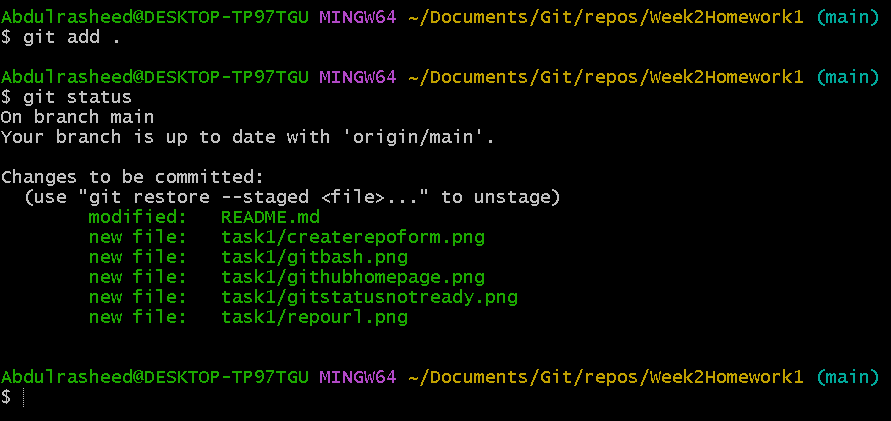
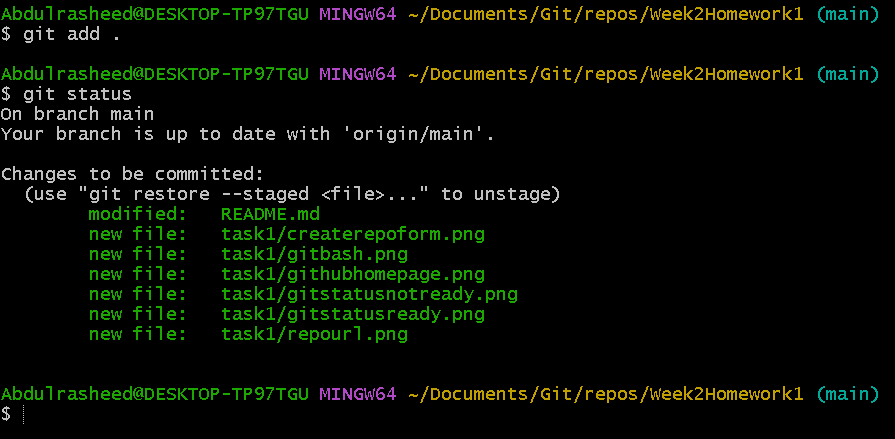
updated readme instructions to include the pushing steps

diff --git a/README.md b/README.md
@@ -36,4 +36,10 @@ __Pushing local repository back into Github:__
 - To make the changes ready, enter the following syntax ```git add . ``` If you run the status command again, the script will state that any modified changes are good to go and can be added into the remote repository:
 >![](task1/gitstatusready.png) *The modified changes are now in what is called the staging area, and are ready to be committed*
 
-- To commit the changes, enter the following command: ```git commit -m "Insert commit message"```. The ```-m``` command allows you to input a message into said commit, and is good business practice, so that other users can see and understand any changes that have been made.  
+- To commit the changes, enter the following command: ```git commit -m "Insert commit message"```. *(The ```-m``` command allows you to input a message into said commit, and is good business practice, so that other users can see and understand any changes that have been made)*.  
+>![](task1/gitcommit.png) *The modified changes are now committed and can be pushed onto the remote repository*
+
+- __FINAL STAGE.__ To push the changes, enter the following command ```git push```. If the operation is successful, the terminal should return a script that looks like this:  
+>![](task1/gitpush.png)  
+
+- __BRAVA! YOU HAVE SUCCESSFULLY PUSHED YOUR LOCALLY MODIFIED CHANGES INTO THE REMOTE REPOSITORY!.__ You can now view the changes by visiting the repo URL on your internet browser. 
